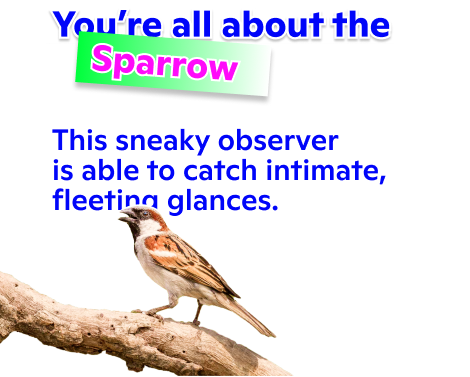
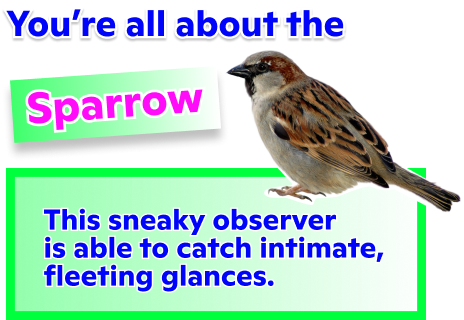
Aggiornamento automatico

diff --git a/output.html b/output.html
@@ -132,12 +132,10 @@
 	.section-4 .text-image {
 	max-width: 90%; /* Adatta la larghezza per dispositivi mobili */
 	margin-top: 15px;
-	position: absolute;
-	left: 0px;
 	}
 	.section-5 {
 	background: url('https://raw.githubusercontent.com/MarcoToon/output/refs/heads/main/sky-background2.png') no-repeat center/cover;
-	height: 101vh;
+	height: 105vh;
 	position: relative;
 	}
 	.section-5 .text-image {
@@ -145,14 +143,14 @@
 	margin-top: 10px;
 	}
         .section-5 img.mano {
-	width: 250px;
+	width: 320px;
 	position: absolute;
-	top: 0px;
+	margin-top: 210px;
 	left: 0px;
 	}
         .section-5 img.logo2 {
-	max-width: 100%; /* Adatta la larghezza per dispositivi mobili */
-	margin-top: 10px;
+	max-width: 70%; /* Adatta la larghezza per dispositivi mobili */
+	margin-top: 160px;
 	}
 	</style>
 	</head>
@@ -194,7 +192,7 @@
 	</div>
 	<!-- Sezione 5 -->
 	<div class="section section-5">
-	<img src="https://raw.githubusercontent.com/MarcoToon/output/refs/heads/main/section-5-text.png" alt="Section Text" class="text-image"></div>
+	<img src="https://raw.githubusercontent.com/MarcoToon/output/refs/heads/main/section-5-text.png" alt="Section Text" class="text-image">
 	<img src="https://raw.githubusercontent.com/MarcoToon/output/refs/heads/main/mano.png" alt="Mano" class="mano">
 	<img src="https://raw.githubusercontent.com/MarcoToon/output/refs/heads/main/logo-vtv-2.png" alt="Vtv Logo 2" class="logo2">
 	</div>
